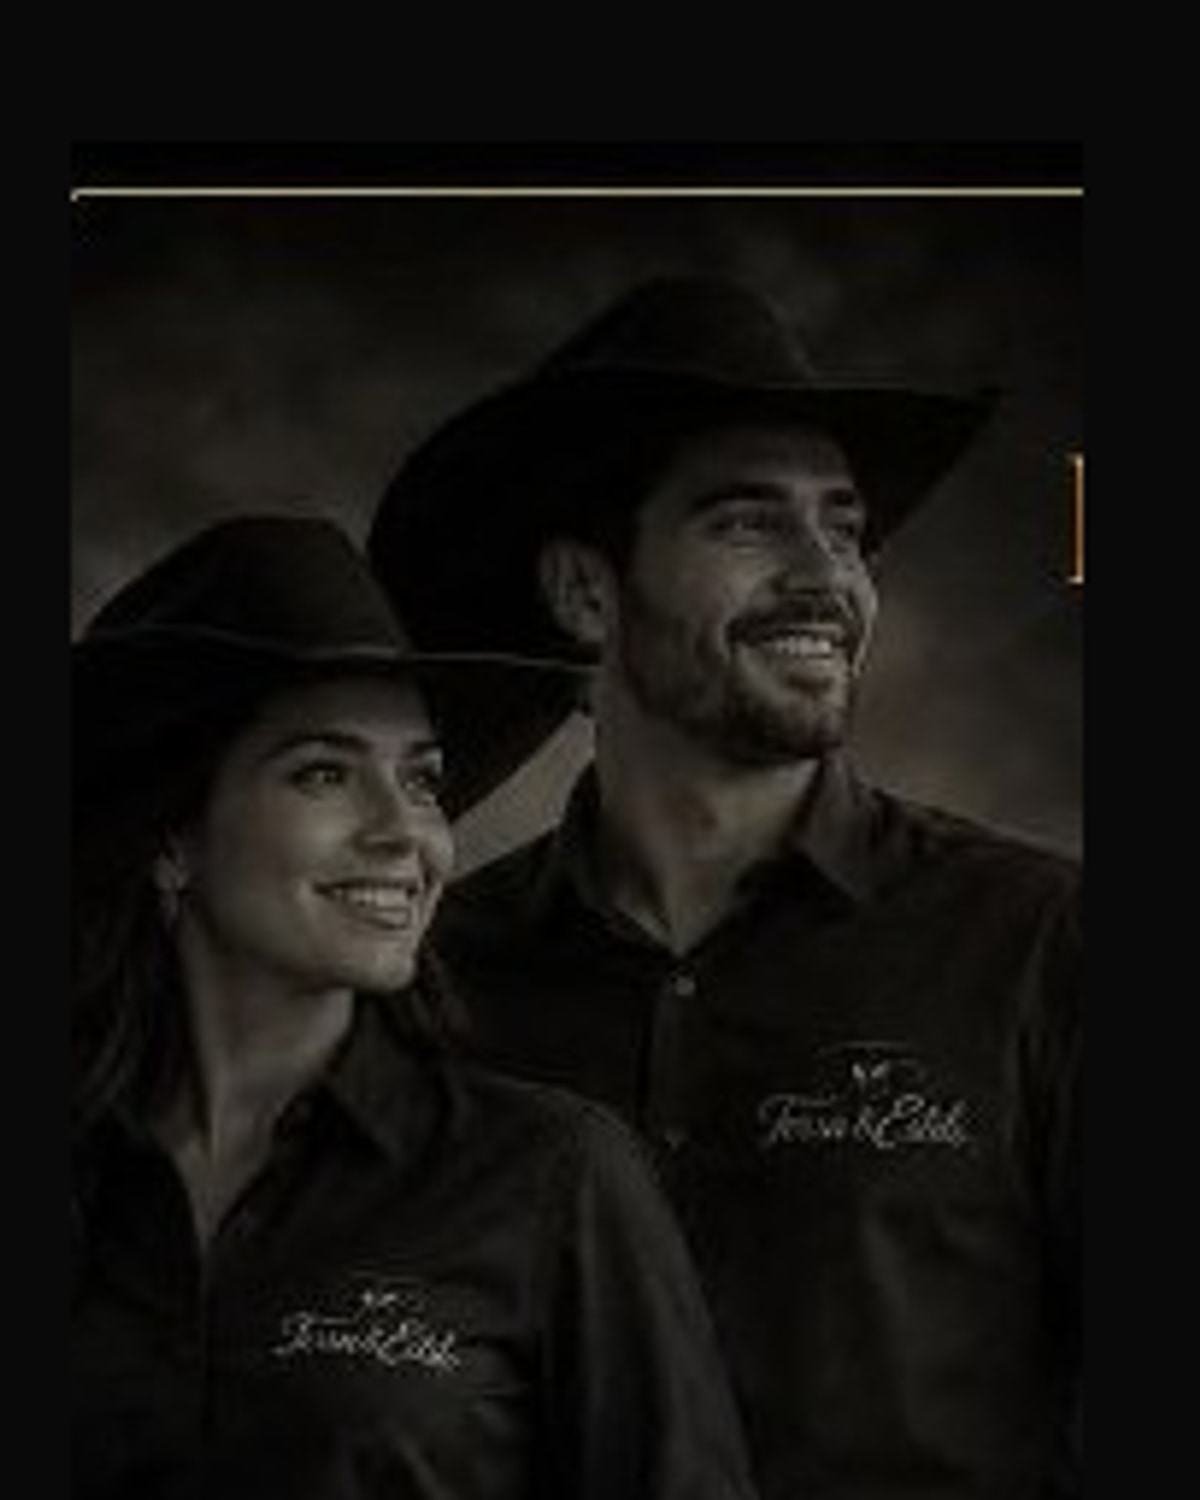
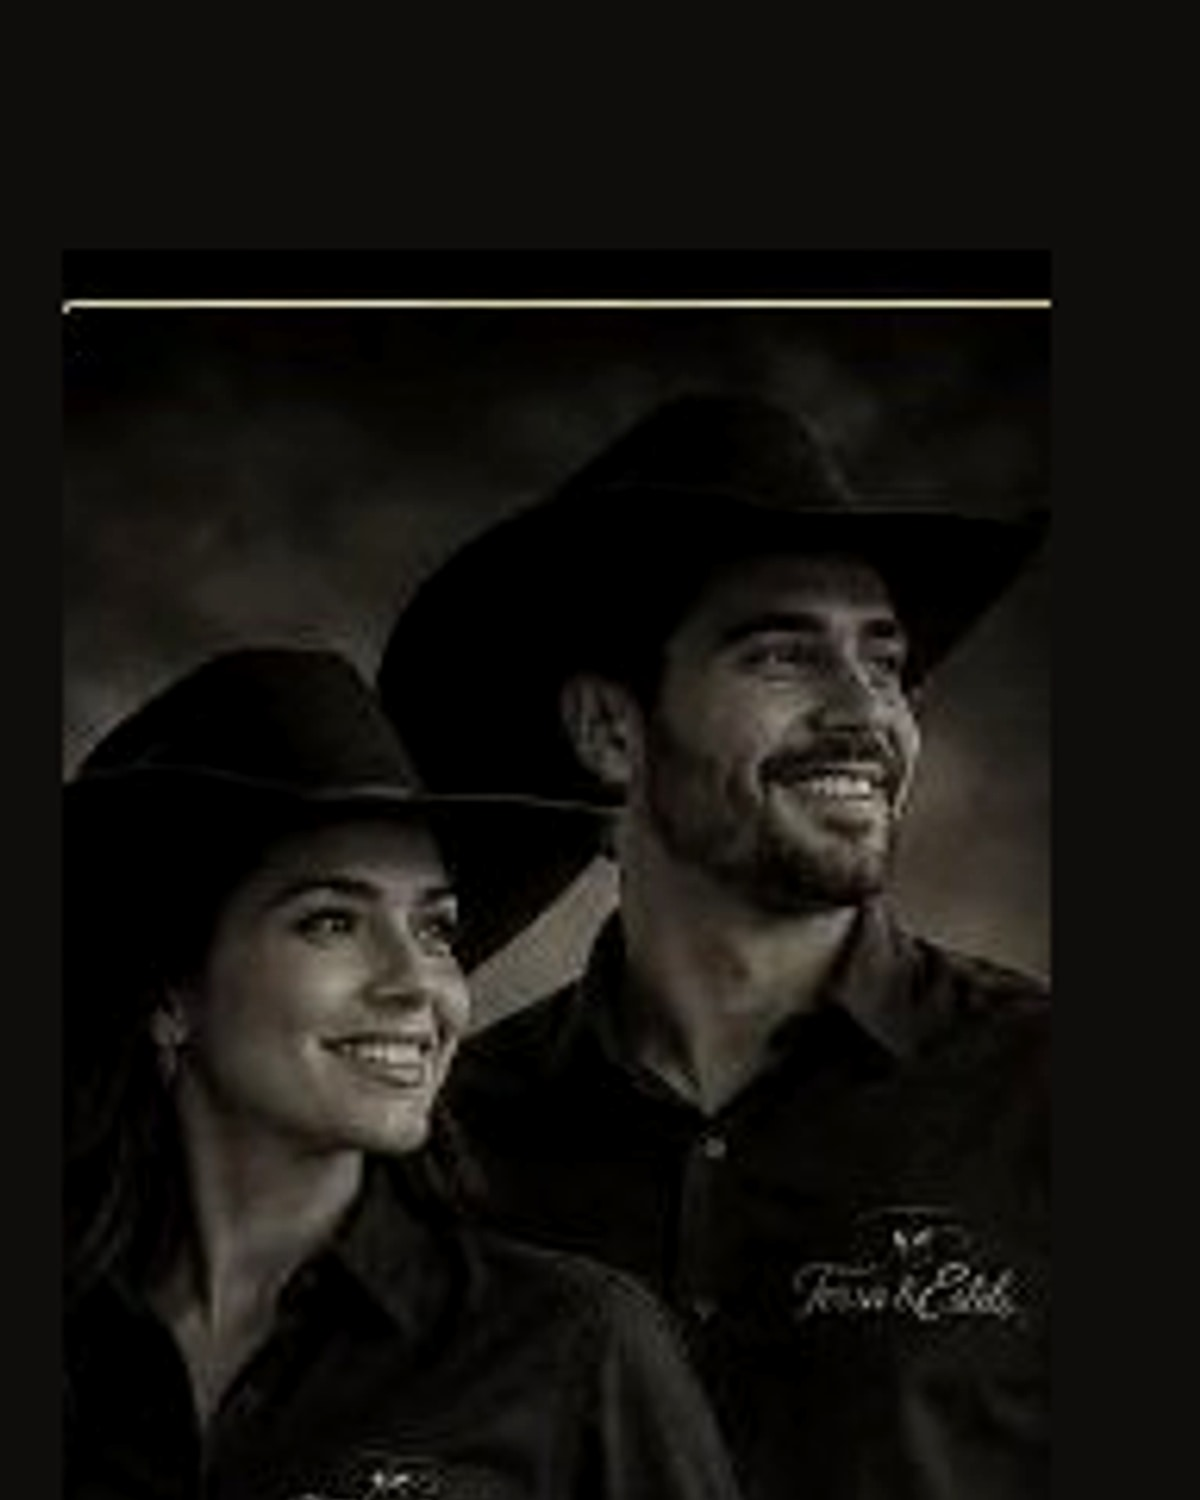
Ajuste

diff --git a/src/home.css b/src/home.css
@@ -1037,16 +1037,18 @@
   width: 100%;
   height: 100%;
   object-fit: cover;
-  /* Bias to faces/hats; models-only crop (no inauguration type) */
-  object-position: 42% 14%;
+  /* Faces + hats; models-only crop (no inauguration type) */
+  object-position: 40% 8%;
+  filter: brightness(1.14) contrast(1.06) saturate(1.05);
 }
 
 .hero-section__media-overlay {
   position: absolute;
   inset: 0;
+  /* Soft edge blend only — keep faces readable */
   background:
-    linear-gradient(90deg, rgba(9, 9, 9, 0.15) 0%, rgba(9, 9, 9, 0.35) 55%, rgba(9, 9, 9, 0.88) 100%),
-    linear-gradient(180deg, rgba(9, 9, 9, 0.2) 0%, transparent 35%, rgba(9, 9, 9, 0.55) 100%);
+    linear-gradient(90deg, rgba(9, 9, 9, 0.02) 0%, rgba(9, 9, 9, 0.08) 62%, rgba(9, 9, 9, 0.42) 100%),
+    linear-gradient(180deg, rgba(9, 9, 9, 0.06) 0%, transparent 28%, rgba(9, 9, 9, 0.22) 100%);
   pointer-events: none;
 }
 
@@ -1055,7 +1057,7 @@
   z-index: 2;
   display: flex;
   flex-direction: column;
-  align-items: flex-start;
+  align-items: center;
   justify-content: center;
   gap: 0;
   min-width: 0;
@@ -1063,19 +1065,29 @@
   width: 100%;
   height: auto;
   align-self: stretch;
-  padding: clamp(40px, 5vw, 72px) clamp(24px, 4vw, 56px);
-  background:
-    radial-gradient(circle at 70% 30%, rgba(201, 162, 77, 0.1), transparent 42%),
-    linear-gradient(160deg, #151515 0%, #090909 100%);
+  padding: clamp(36px, 4.5vw, 64px) clamp(28px, 4.5vw, 56px);
+  background: linear-gradient(165deg, #171717 0%, #0c0c0c 100%);
   overflow: hidden;
   animation: hero-fade-in 0.35s ease both;
+}
+
+.hero-section__copy {
+  position: relative;
+  z-index: 1;
+  display: flex;
+  flex-direction: column;
+  align-items: center;
+  text-align: center;
+  width: 100%;
+  max-width: 34rem;
+  margin: 0 auto;
 }
 
 .hero-section__particles {
   position: absolute;
   inset: 0;
   pointer-events: none;
-  opacity: 0.45;
+  opacity: 0.28;
   background-image:
     radial-gradient(1px 1px at 12% 22%, rgba(230, 201, 138, 0.55), transparent),
     radial-gradient(1.5px 1.5px at 78% 18%, rgba(201, 162, 77, 0.45), transparent),
@@ -1087,16 +1099,7 @@
 }
 
 .hero-section__glow {
-  position: absolute;
-  top: 12%;
-  left: 50%;
-  width: min(320px, 70%);
-  height: min(320px, 70%);
-  transform: translateX(-50%);
-  border-radius: 50%;
-  background: radial-gradient(circle, rgba(201, 162, 77, 0.18) 0%, transparent 68%);
-  pointer-events: none;
-  filter: blur(8px);
+  display: none;
 }
 
 .hero-section__label {
@@ -1110,14 +1113,16 @@
 }
 
 .hero-section__title {
-  margin: 14px 0 0;
-  max-width: 18ch;
+  margin: 14px auto 0;
+  max-width: 22ch;
+  width: 100%;
   font-family: 'Cormorant Garamond', var(--font-serif);
-  font-size: clamp(2.15rem, 3.6vw, 3.35rem);
+  font-size: clamp(2rem, 3.2vw, 3.1rem);
   font-weight: 600;
   color: var(--white-soft);
   letter-spacing: 0.01em;
-  line-height: 1.12;
+  line-height: 1.18;
+  text-wrap: balance;
 }
 
 .hero-section__slogan {
@@ -1131,8 +1136,9 @@
 }
 
 .hero-section__support {
-  margin: 18px 0 0;
-  max-width: 38ch;
+  margin: 18px auto 0;
+  max-width: 36ch;
+  width: 100%;
   font-family: var(--font-sans);
   font-size: 0.9375rem;
   font-weight: 400;
@@ -1143,8 +1149,10 @@
 .hero-section__actions {
   display: flex;
   flex-wrap: wrap;
+  justify-content: center;
   gap: 12px;
   margin-top: 32px;
+  width: 100%;
 }
 
 .hero-section__actions .btn--primary {
@@ -1183,7 +1191,7 @@
 }
 
 .hero-brand-board {
-  margin: 0;
+  margin: 0 auto;
   padding: 0;
   width: auto;
   max-width: var(--hero-board-max-w);
@@ -1195,14 +1203,13 @@
   position: relative;
   display: grid;
   place-items: center;
-  padding: 6px;
+  padding: 5px;
   border-radius: 50%;
   background:
-    linear-gradient(145deg, rgba(230, 201, 138, 0.55), rgba(201, 162, 77, 0.2) 40%, rgba(216, 181, 106, 0.45));
+    linear-gradient(145deg, rgba(230, 201, 138, 0.5), rgba(201, 162, 77, 0.18) 42%, rgba(216, 181, 106, 0.4));
   box-shadow:
-    0 0 0 1px rgba(201, 162, 77, 0.35),
-    0 0 28px rgba(201, 162, 77, 0.22),
-    0 16px 36px rgba(0, 0, 0, 0.35);
+    0 0 0 1px rgba(201, 162, 77, 0.32),
+    0 10px 28px rgba(0, 0, 0, 0.32);
 }
 
 .hero-brand-board__ring::after {
@@ -2197,8 +2204,12 @@
     padding: 36px 24px 48px;
   }
 
+  .hero-section__copy {
+    max-width: 36rem;
+  }
+
   .hero-section__title {
-    max-width: 20ch;
+    max-width: 22ch;
   }
 
   .hero-section__support {

diff --git a/src/components/home/HeroSection.jsx b/src/components/home/HeroSection.jsx
@@ -23,29 +23,30 @@ function HeroSection() {
 
         <div className="hero-section__panel">
           <div className="hero-section__particles" aria-hidden="true" />
-          <div className="hero-section__glow" aria-hidden="true" />
 
-          <HeroBrandBoard logoSrc={BRAND_LOGO_CIRCULAR_SRC} />
+          <div className="hero-section__copy">
+            <HeroBrandBoard logoSrc={BRAND_LOGO_CIRCULAR_SRC} />
 
-          <p className="hero-section__label">{heroContent.label}</p>
-          <h1 id="hero-title" className="hero-section__title">
-            {heroContent.title}
-          </h1>
-          <p className="hero-section__slogan">{heroContent.slogan}</p>
-          <p className="hero-section__support">{heroContent.support}</p>
+            <p className="hero-section__label">{heroContent.label}</p>
+            <h1 id="hero-title" className="hero-section__title">
+              {heroContent.title}
+            </h1>
+            <p className="hero-section__slogan">{heroContent.slogan}</p>
+            <p className="hero-section__support">{heroContent.support}</p>
 
-          <div className="hero-section__actions">
-            <a href="#produtos" className="btn btn--primary">
-              {heroContent.primaryCta}
-            </a>
-            <a
-              href={whatsappHref}
-              className="btn btn--outline"
-              target="_blank"
-              rel="noopener noreferrer"
-            >
-              {heroContent.secondaryCta}
-            </a>
+            <div className="hero-section__actions">
+              <a href="#produtos" className="btn btn--primary">
+                {heroContent.primaryCta}
+              </a>
+              <a
+                href={whatsappHref}
+                className="btn btn--outline"
+                target="_blank"
+                rel="noopener noreferrer"
+              >
+                {heroContent.secondaryCta}
+              </a>
+            </div>
           </div>
         </div>
       </div>
